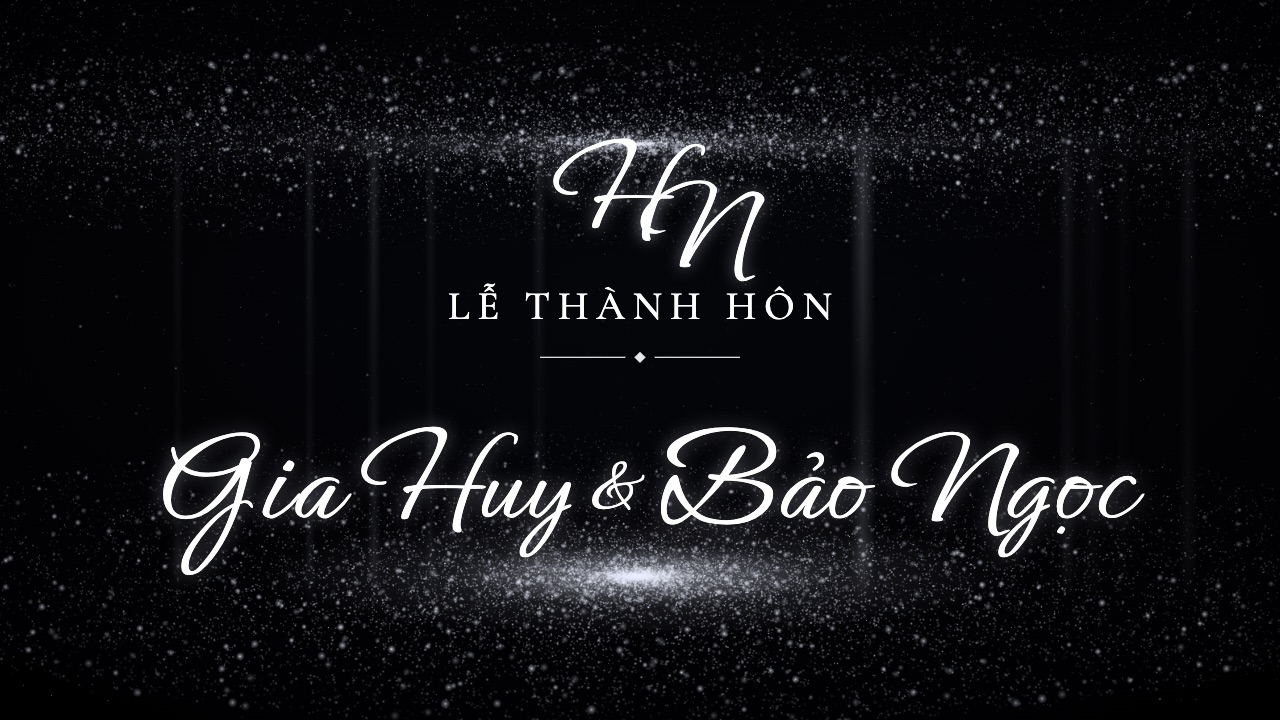
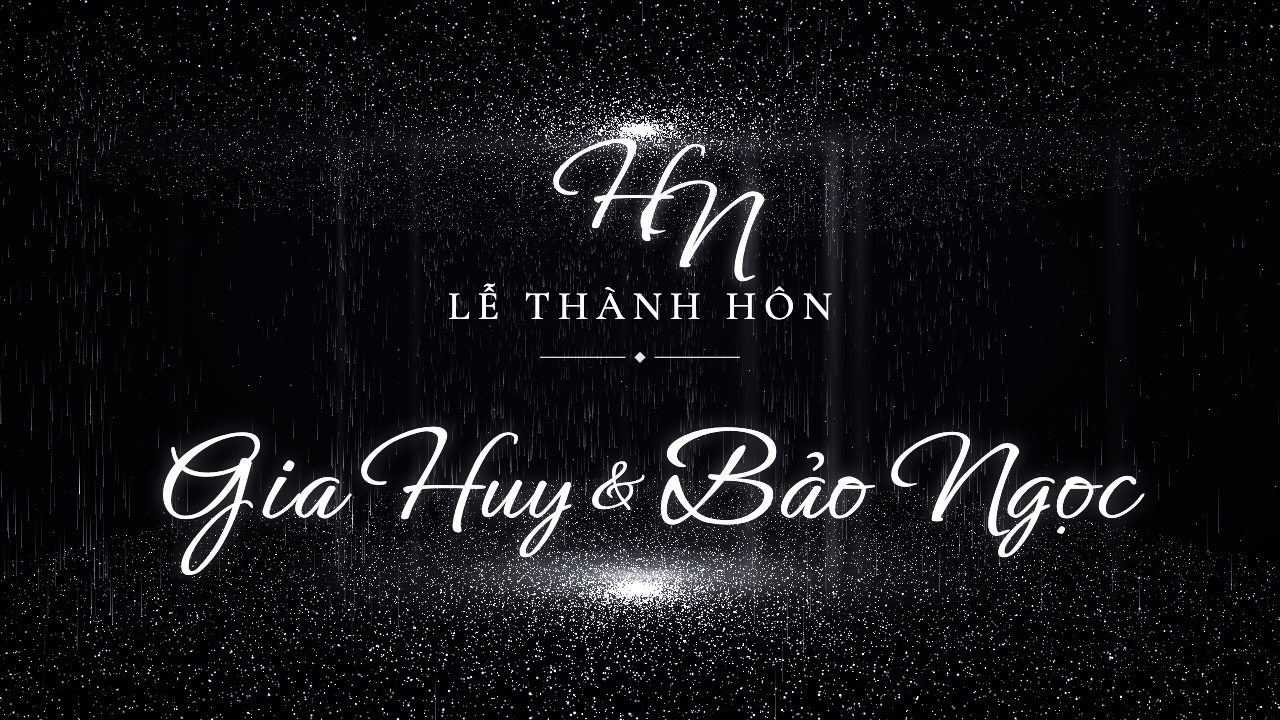
Màn LED "Đêm kim tuyến bạc" viết lại bằng WebGL: sàn + trần kim tuyến là hai đĩa hạt 3 chiều có phối cảnh, xoay chậm, lấp lánh; thác kim tuyến đổ từ trần xuống sàn (vệt rơi nhanh dần); cứ ~1 giây một giọt sáng rơi "tõm" xuống sàn → loé sáng, bắn hạt và một vòng sóng lan ra làm kim tuyến nhấp nhô + s

diff --git a/public/led/led.js b/public/led/led.js
@@ -152,13 +152,14 @@
     dembac: {
       init: function () {
         var self = this, dens = Math.max(0.3, L.density), i, j;
+        self.useGl = GLFX.start(); // có WebGL thì kim tuyến + thác + vòng sóng vẽ bằng card đồ hoạ; canvas 2D chỉ còn cột sáng, quầng sáng, sao băng
         var port = H > W, TW = port ? 900 : 1600, TH = Math.round(TW * H / W);
         var top = TH * (port ? 0.15 : 0.2), floor = TH * (port ? 0.85 : 0.8);
         self.top = top / TH; self.floor = floor / TH;
         var mk = function (w, h) { var c = document.createElement('canvas'); c.width = w; c.height = h; return c; };
         // 4 tấm kim tuyến phủ cả màn, hạt đã chiếu phối cảnh sẵn (tròn, gần thì to); mỗi khung hình chỉ dán 4 tấm với độ sáng lệch pha
         self.layers = [];
-        for (i = 0; i < 4; i++) {
+        for (i = 0; i < (self.useGl ? 0 : 4); i++) {
           var c = mk(TW, TH), g = c.getContext('2d');
           var dot = function (x, y, r, a) { g.globalAlpha = a; g.drawImage(sprite, x - r, y - r, r * 2, r * 2); };
           // đĩa nhìn nghiêng: tâm (cx, cy), bán kính rx / ry; hạt dày ở tâm; near = nửa gần mắt (to và sáng hơn)
@@ -193,6 +194,50 @@
         self.beams = [];
         for (i = 0; i < 10; i++) self.beams.push({ x: rnd(0.06, 0.94), w: rnd(0.008, 0.024), a: rnd(0.05, 0.13), ph: rnd(0, 6.28), sp: rnd(0.2, 0.6) });
         self.beams.push({ x: rnd(0.63, 0.72), w: 0.02, a: 0.34, ph: 0, sp: 0.25 }); // một cột sáng rõ hơn
+        // thác kim tuyến: các dòng đổ từ dải trên xuống sàn (dòng dày ở hai bên, thưa ở giữa chỗ có chữ), hạt rơi nhanh dần,
+        // chạm sàn thì loé sáng + bắn vài hạt nhỏ
+        self.streams = [];
+        for (i = 0; i < 16; i++) {
+          var sx = i < 6 ? rnd(0.04, 0.3) : i < 12 ? rnd(0.7, 0.96) : rnd(0.32, 0.68);
+          self.streams.push({ x: sx, w: rnd(0.006, 0.022), rate: (i < 12 ? rnd(55, 95) : rnd(14, 26)) * dens, acc: 0 });
+        }
+        self.drops = []; self.sparks = [];
+      },
+      fall: function (dt, top, floor) {
+        var sp = L.speed, k = W / 1920, i, d, g = 900 * (H / 1080) * sp;
+        if (this.drops.length < 3200) for (i = 0; i < this.streams.length; i++) {
+          var st = this.streams[i];
+          st.acc += st.rate * dt * sp;
+          while (st.acc >= 1) {
+            st.acc -= 1;
+            this.drops.push({ x: (st.x + (Math.random() + Math.random() - 1) * st.w) * W, y: top + rnd(-H * 0.04, H * 0.03), v: rnd(20, 90) * (H / 1080) * sp, r: Math.random() < 0.08 ? rnd(3, 4.5) : rnd(1.3, 2.4), a: rnd(0.6, 1), ph: rnd(0, 6.28) });
+          }
+        }
+        ctx.globalCompositeOperation = 'lighter';
+        for (i = this.drops.length - 1; i >= 0; i--) {
+          d = this.drops[i];
+          d.v += g * dt; d.y += d.v * dt; d.x += Math.sin(d.y * 0.01 + d.ph) * 4 * dt;
+          if (d.y >= floor + rnd(-H * 0.05, H * 0.04)) { // chạm sàn: loé + bắn tia
+            if (Math.random() < 0.35) for (var n = 0; n < 3; n++) this.sparks.push({ x: d.x, y: d.y, vx: rnd(-120, 120) * k, vy: -rnd(60, 220) * k, life: 0, max: rnd(0.35, 0.7) });
+            this.sparks.push({ x: d.x, y: d.y, vx: 0, vy: 0, life: 0, max: 0.25, flash: 1 });
+            this.drops.splice(i, 1); continue;
+          }
+          // mờ đi ở giữa màn (chỗ có chữ), rõ ở gần trần và gần sàn
+          var p = (d.y - top) / (floor - top), vis = 0.35 + 0.65 * Math.max(0, Math.abs(p - 0.5) * 2 - 0.15) / 0.85;
+          var len = Math.min(26, d.v * 0.018) * k + d.r * 2;                 // vệt dài theo tốc độ rơi
+          ctx.globalAlpha = d.a * vis;
+          ctx.drawImage(sprite, d.x - d.r * 2, d.y - len, d.r * 4, len + d.r * 2);
+        }
+        for (i = this.sparks.length - 1; i >= 0; i--) {
+          var s = this.sparks[i];
+          s.life += dt;
+          if (s.life >= s.max) { this.sparks.splice(i, 1); continue; }
+          var q = 1 - s.life / s.max;
+          if (s.flash) { ctx.globalAlpha = 0.7 * q; ctx.drawImage(sprite, s.x - 9 * k, s.y - 4 * k, 18 * k, 8 * k); continue; }
+          s.vy += g * 0.6 * dt; s.x += s.vx * dt; s.y += s.vy * dt;
+          ctx.globalAlpha = 0.8 * q; ctx.drawImage(sprite, s.x - 2, s.y - 2, 4, 4);
+        }
+        ctx.globalCompositeOperation = 'source-over';
       },
       draw: function (dt, t) {
         var sp = L.speed, i, top = this.top * H, floor = this.floor * H;
@@ -209,11 +254,13 @@
         ctx.globalAlpha = 0.22;
         ctx.drawImage(this.core, W / 2 - W * 0.55, top - H * 0.045, W * 1.1, H * 0.09);
         // kim tuyến: 4 tấm đổi độ sáng lệch pha + trôi ngang rất chậm ngược chiều nhau → lấp lánh, có chiều sâu
-        for (i = 0; i < this.layers.length; i++) {
+        if (this.useGl && GLFX.gl) GLFX.draw(dt);
+        else for (i = 0; i < this.layers.length; i++) {
           var l = this.layers[i], ox = Math.sin(t * 0.05 * sp + l.ph) * l.dx * (W / 1600);
           ctx.globalAlpha = 0.45 + 0.55 * Math.pow(0.5 + 0.5 * Math.sin(t * l.sp * sp + l.ph), 1.5);
           ctx.drawImage(l.c, ox - 8, 0, W + 16, H);
         }
+        if (!(this.useGl && GLFX.gl)) this.fall(dt, top, floor);
         // sao băng mảnh, thưa
         if (Math.random() < dt * 0.22 * sp) {
           var ang = rnd(0.3, 0.55);
@@ -565,6 +612,140 @@
     },
   };
 
+  // ---------------- Đêm kim tuyến bạc bằng WebGL ----------------
+  // Sàn + trần kim tuyến là hai đĩa hạt trong không gian 3 chiều (máy quay nhìn ngang), xoay chậm; thác kim tuyến đổ từ trần xuống sàn;
+  // thỉnh thoảng một giọt sáng rơi "tõm" xuống sàn → loé sáng, bắn vài hạt và một vòng sóng lan ra làm kim tuyến nhấp nhô + sáng lên.
+  // Mọi hạt chuyển động trong shader (card đồ hoạ tính) nên hàng chục nghìn hạt vẫn 60 khung hình/giây. Máy không có WebGL → bản canvas 2D.
+  var GLFX = {
+    gl: null, cv: null, time: 0, rip: [], heroes: [], sparks: [], nextDrop: 0,
+    VS_PTS: 'attribute vec4 aP;uniform float uT,uAsp,uPx;uniform vec3 uRip[6];varying float vA;' +
+      'void main(){float seed=aP.z;float tw=pow(0.5+0.5*sin(uT*(1.2+seed*3.7)+seed*61.0),3.0);' +
+      'if(aP.w>1.5){gl_Position=vec4(aP.xy,0.0,1.0);gl_PointSize=uPx*(1.6+2.8*fract(seed*7.3));vA=(0.15+0.85*tw)*0.9;return;}' +
+      'float fl=aP.w<0.5?1.0:0.0;float ang=aP.y+uT*(fl>0.5?0.03:-0.02)*(1.0+0.7/(0.5+aP.x));' +
+      'vec3 p=vec3(cos(ang)*aP.x,fl>0.5?-0.95:0.95,sin(ang)*aP.x);float lift=0.0;' +
+      'if(fl>0.5){for(int i=0;i<6;i++){float age=uT-uRip[i].z;if(age>0.0&&age<3.2){float d=distance(p.xz,uRip[i].xy);' +
+      'float w=exp(-pow((d-age*0.85)/0.085,2.0))*exp(-age*1.05);float w2=exp(-pow((d-age*0.85+0.22)/0.07,2.0))*exp(-age*1.6)*0.5;lift+=w+w2;}}}' +
+      'p.y+=lift*0.085;float zc=3.2-p.z;float f=2.1445;gl_Position=vec4(p.x*f/uAsp*zc/zc,p.y*f,0.0,zc);gl_Position.x=p.x*f/uAsp;' +
+      'float sz=uPx*(2.4+5.0*fract(seed*13.7)*fract(seed*5.1))*2.6/zc;gl_PointSize=max(1.0,sz)*(1.0+lift*1.4);' +
+      'float far=clamp(1.3-zc*0.09,0.5,1.0);vA=((0.5+1.1*tw)*(0.9+2.2*exp(-aP.x*1.2))*(fl>0.5?1.0:0.8)+lift*1.6)*far*smoothstep(0.15,0.7,zc);}',
+    VS_DROP: 'attribute vec4 aD;attribute float aTail;uniform float uT,uAsp,uPx;varying float vA;' +
+      'void main(){float f=fract(uT*aD.w+aD.z);float ft=max(f-0.01-0.028*f,0.0);float ff=aTail>0.5?ft:f;' +
+      'vec3 p=vec3(aD.x,0.95-ff*ff*1.9,aD.y);float zc=3.2-p.z;float k=2.1445;gl_Position=vec4(p.x*k/uAsp,p.y*k,0.0,zc);' +
+      'gl_PointSize=max(1.0,uPx*2.6*2.3/zc);float mid=0.4+0.6*abs(f*f-0.5)*2.0;' +
+      'vA=(aTail>0.5?0.0:1.0)*smoothstep(0.0,0.06,f)*(1.0-smoothstep(0.94,1.0,f))*mid*(0.15+0.4*fract(aD.z*17.0))*clamp(1.3-zc*0.12,0.3,1.0);}',
+    VS_DYN: 'attribute vec3 aPos;attribute vec2 aSA;uniform float uAsp,uPx;varying float vA;' +
+      'void main(){float zc=3.2-aPos.z;float k=2.1445;gl_Position=vec4(aPos.x*k/uAsp,aPos.y*k,0.0,zc);gl_PointSize=max(1.0,aSA.x*uPx*2.3/zc);vA=aSA.y;}',
+    FS: 'precision mediump float;varying float vA;uniform vec3 uCol;uniform float uPoint;' +
+      'void main(){float a=1.0;if(uPoint>0.5){float d=length(gl_PointCoord-0.5);a=smoothstep(0.5,0.0,d);a*=a;}float v=a*vA;gl_FragColor=vec4(uCol*v,v);}',
+    prog: function (vs, fs) {
+      var gl = this.gl, mk = function (t, src) { var sh = gl.createShader(t); gl.shaderSource(sh, src); gl.compileShader(sh); if (!gl.getShaderParameter(sh, gl.COMPILE_STATUS)) throw new Error(gl.getShaderInfoLog(sh)); return sh; };
+      var p = gl.createProgram(); gl.attachShader(p, mk(gl.VERTEX_SHADER, vs)); gl.attachShader(p, mk(gl.FRAGMENT_SHADER, fs)); gl.linkProgram(p);
+      if (!gl.getProgramParameter(p, gl.LINK_STATUS)) throw new Error(gl.getProgramInfoLog(p));
+      return p;
+    },
+    start: function () {
+      this.stop();
+      try {
+        var cv = document.createElement('canvas'); cv.id = 'fxgl';
+        var gl = cv.getContext('webgl', { alpha: true, antialias: false, premultipliedAlpha: true, powerPreference: 'high-performance' });
+        if (!gl) return false;
+        this.gl = gl; this.cv = cv;
+        var dens = Math.max(0.3, L.density), i, a = [];
+        // sàn + trần: một phần hạt rải đều cả đĩa, một phần dồn về tâm (tâm sáng rực)
+        var disc = function (n, kind, R) { for (var q = 0; q < n; q++) { var u = Math.random(); a.push(Math.random() < 0.55 ? R * Math.sqrt(u) : R * 0.75 * u * u, Math.random() * 6.2832, Math.random(), kind); } };
+        disc(Math.round(34000 * dens), 0, 3.0); disc(Math.round(24000 * dens), 1, 3.0);
+        for (i = 0; i < Math.round(1400 * dens); i++) a.push(rnd(-1, 1), rnd(-1, 1), Math.random(), 2); // bụi sao
+        this.nPts = a.length / 4;
+        this.bPts = gl.createBuffer(); gl.bindBuffer(gl.ARRAY_BUFFER, this.bPts); gl.bufferData(gl.ARRAY_BUFFER, new Float32Array(a), gl.STATIC_DRAW);
+        // thác: các dòng đổ quanh rìa + mưa kim tuyến thưa khắp sàn; mỗi hạt = một đoạn thẳng (đầu sáng, đuôi tắt)
+        var d = [], streams = [];
+        for (i = 0; i < 22; i++) { var an = rnd(0, 6.2832), rr = rnd(1.1, 2.7); streams.push([Math.cos(an) * rr, Math.sin(an) * rr, rnd(0.08, 0.2)]); }
+        var nD = Math.round(4200 * dens);
+        for (i = 0; i < nD; i++) {
+          var x, z;
+          if (Math.random() < 0.75) { var st = streams[i % streams.length]; x = st[0] + (Math.random() + Math.random() - 1) * st[2]; z = st[1] + (Math.random() + Math.random() - 1) * st[2]; }
+          else { var a2 = rnd(0, 6.2832), r2 = 2.8 * Math.sqrt(Math.random()); x = Math.cos(a2) * r2; z = Math.sin(a2) * r2; }
+          var ph = Math.random(), spd = rnd(0.22, 0.42);
+          d.push(x, z, ph, spd, 0, x, z, ph, spd, 1);
+        }
+        this.nDrop = nD * 2;
+        this.bDrop = gl.createBuffer(); gl.bindBuffer(gl.ARRAY_BUFFER, this.bDrop); gl.bufferData(gl.ARRAY_BUFFER, new Float32Array(d), gl.STATIC_DRAW);
+        this.bDyn = gl.createBuffer(); this.dyn = new Float32Array(5 * 400);
+        this.pPts = this.prog(this.VS_PTS, this.FS); this.pDrop = this.prog(this.VS_DROP, this.FS); this.pDyn = this.prog(this.VS_DYN, this.FS);
+        gl.disable(gl.DEPTH_TEST); gl.enable(gl.BLEND); gl.blendFunc(gl.ONE, gl.ONE);
+        this.rip = []; for (i = 0; i < 6; i++) this.rip.push([0, 0, -99]);
+        this.ripI = 0; this.heroes = []; this.sparks = []; this.time = 0; this.nextDrop = 0.6;
+        stage.insertBefore(cv, canvas.nextSibling);
+        return true;
+      } catch (e) { this.stop(); return false; }
+    },
+    stop: function () {
+      if (this.cv && this.cv.parentNode) this.cv.remove();
+      if (this.gl) { var ex = this.gl.getExtension('WEBGL_lose_context'); if (ex) ex.loseContext(); }
+      this.gl = null; this.cv = null;
+    },
+    draw: function (dt) {
+      var gl = this.gl, cv = this.cv, i, h, s;
+      if (cv.width !== canvas.width || cv.height !== canvas.height) { cv.width = canvas.width; cv.height = canvas.height; }
+      this.time += dt * L.speed;
+      var t = this.time, g = 3.4;
+      // giọt sáng rơi: xuất phát ở trần, rơi nhanh dần; chạm sàn → vòng sóng + loé + bắn hạt
+      if (t > this.nextDrop) {
+        this.nextDrop = t + rnd(0.55, 1.3);
+        var an = rnd(0, 6.2832), rr = 2.2 * Math.sqrt(Math.random());
+        this.heroes.push({ x: Math.cos(an) * rr, z: Math.min(1.7, Math.sin(an) * rr), t0: t, dur: rnd(0.75, 0.95) });
+      }
+      var n = 0, D = this.dyn, put = function (x, y, z, size, al) { if (n >= 400) return; var o = n * 5; D[o] = x; D[o + 1] = y; D[o + 2] = z; D[o + 3] = size; D[o + 4] = al; n++; };
+      for (i = this.heroes.length - 1; i >= 0; i--) {
+        h = this.heroes[i];
+        var f = (t - h.t0) / h.dur;
+        if (f >= 1) {
+          this.rip[this.ripI] = [h.x, h.z, t]; this.ripI = (this.ripI + 1) % 6;
+          this.sparks.push({ x: h.x, y: -0.95, z: h.z, vx: 0, vy: 0, vz: 0, t0: t, max: 0.45, flash: 1 });
+          for (var q = 0; q < 12; q++) { var a3 = rnd(0, 6.2832), v = rnd(0.25, 0.7); this.sparks.push({ x: h.x, y: -0.95, z: h.z, vx: Math.cos(a3) * v, vy: rnd(0.7, 1.5), vz: Math.sin(a3) * v, t0: t, max: rnd(0.45, 0.8) }); }
+          this.heroes.splice(i, 1); continue;
+        }
+        for (var j = 0; j < 14; j++) { var fj = Math.max(0, f - j * 0.012); put(h.x, 0.95 - fj * fj * 1.9, h.z, 9 - j * 0.5, (1 - j / 14) * 0.9); } // đầu giọt + vệt đuôi
+      }
+      for (i = this.sparks.length - 1; i >= 0; i--) {
+        s = this.sparks[i];
+        var age = t - s.t0, k = 1 - age / s.max;
+        if (k <= 0) { this.sparks.splice(i, 1); continue; }
+        if (s.flash) { put(s.x, s.y + 0.02, s.z, 26 + 60 * (1 - k), 0.9 * k * k); continue; }
+        put(s.x + s.vx * age, Math.max(-0.95, s.y + s.vy * age - 0.5 * g * age * age), s.z + s.vz * age, 4.5, 0.9 * k);
+      }
+      gl.viewport(0, 0, cv.width, cv.height);
+      gl.clearColor(0, 0, 0, 0); gl.clear(gl.COLOR_BUFFER_BIT);
+      var asp = cv.width / cv.height, px = cv.height / 1080, col = pal.particle, self = this;
+      var rgb = [parseInt(col.slice(1, 3), 16) / 255, parseInt(col.slice(3, 5), 16) / 255, parseInt(col.slice(5, 7), 16) / 255];
+      var use = function (p, point) {
+        gl.useProgram(p);
+        gl.uniform1f(gl.getUniformLocation(p, 'uT'), t); gl.uniform1f(gl.getUniformLocation(p, 'uAsp'), asp); gl.uniform1f(gl.getUniformLocation(p, 'uPx'), px);
+        gl.uniform3fv(gl.getUniformLocation(p, 'uCol'), rgb); gl.uniform1f(gl.getUniformLocation(p, 'uPoint'), point);
+      };
+      var attr = function (p, name, size, stride, off) { var l = gl.getAttribLocation(p, name); if (l < 0) return; gl.enableVertexAttribArray(l); gl.vertexAttribPointer(l, size, gl.FLOAT, false, stride, off); };
+      // hạt sàn / trần / bụi sao
+      use(this.pPts, 1);
+      var flat = []; for (i = 0; i < 6; i++) flat.push(this.rip[i][0], this.rip[i][1], this.rip[i][2]);
+      gl.uniform3fv(gl.getUniformLocation(this.pPts, 'uRip'), new Float32Array(flat));
+      gl.bindBuffer(gl.ARRAY_BUFFER, this.bPts); attr(this.pPts, 'aP', 4, 16, 0);
+      gl.drawArrays(gl.POINTS, 0, this.nPts);
+      // thác: vệt (đoạn thẳng) + đầu hạt
+      gl.bindBuffer(gl.ARRAY_BUFFER, this.bDrop);
+      use(this.pDrop, 0); attr(this.pDrop, 'aD', 4, 20, 0); attr(this.pDrop, 'aTail', 1, 20, 16);
+      gl.drawArrays(gl.LINES, 0, this.nDrop);
+      gl.uniform1f(gl.getUniformLocation(this.pDrop, 'uPoint'), 1);
+      gl.drawArrays(gl.POINTS, 0, this.nDrop);
+      // giọt sáng, loé, hạt bắn
+      if (n) {
+        use(this.pDyn, 1);
+        gl.bindBuffer(gl.ARRAY_BUFFER, this.bDyn); gl.bufferData(gl.ARRAY_BUFFER, D.subarray(0, n * 5), gl.DYNAMIC_DRAW);
+        attr(this.pDyn, 'aPos', 3, 20, 0); attr(this.pDyn, 'aSA', 2, 20, 12);
+        gl.drawArrays(gl.POINTS, 0, n);
+      }
+    },
+  };
+
   // ---------------- nền video quay sẵn (lib/led.js → VIDEOS) ----------------
   // Hai thẻ <video> thay phiên: gần hết video thì bản kia phát lại từ đầu và hiện dần lên → chỗ nối vòng lặp không bị giật.
   var FADE = 1.4, vbg = null;
@@ -622,6 +803,7 @@
 
   function resetFx() {
     parts = []; extra = [];
+    if (L.effect !== 'dembac') GLFX.stop();
     setupVideo();
     (isVideo() ? FX.none : FX[L.effect] || FX.sao).init();
   }

diff --git a/public/led/led.css b/public/led/led.css
@@ -126,3 +126,4 @@ body.fs .ctl .i-off{display:block}
 #stage.st-thanh .bigdate i,#stage.st-thanh .cd i{color:var(--text);opacity:.7}
 #stage.st-thanh.portrait .names{font-size:200px}
 #stage.st-thanh.portrait .names .amp{margin:0}
+#fxgl{position:absolute;inset:0;width:100%;height:100%;pointer-events:none}
